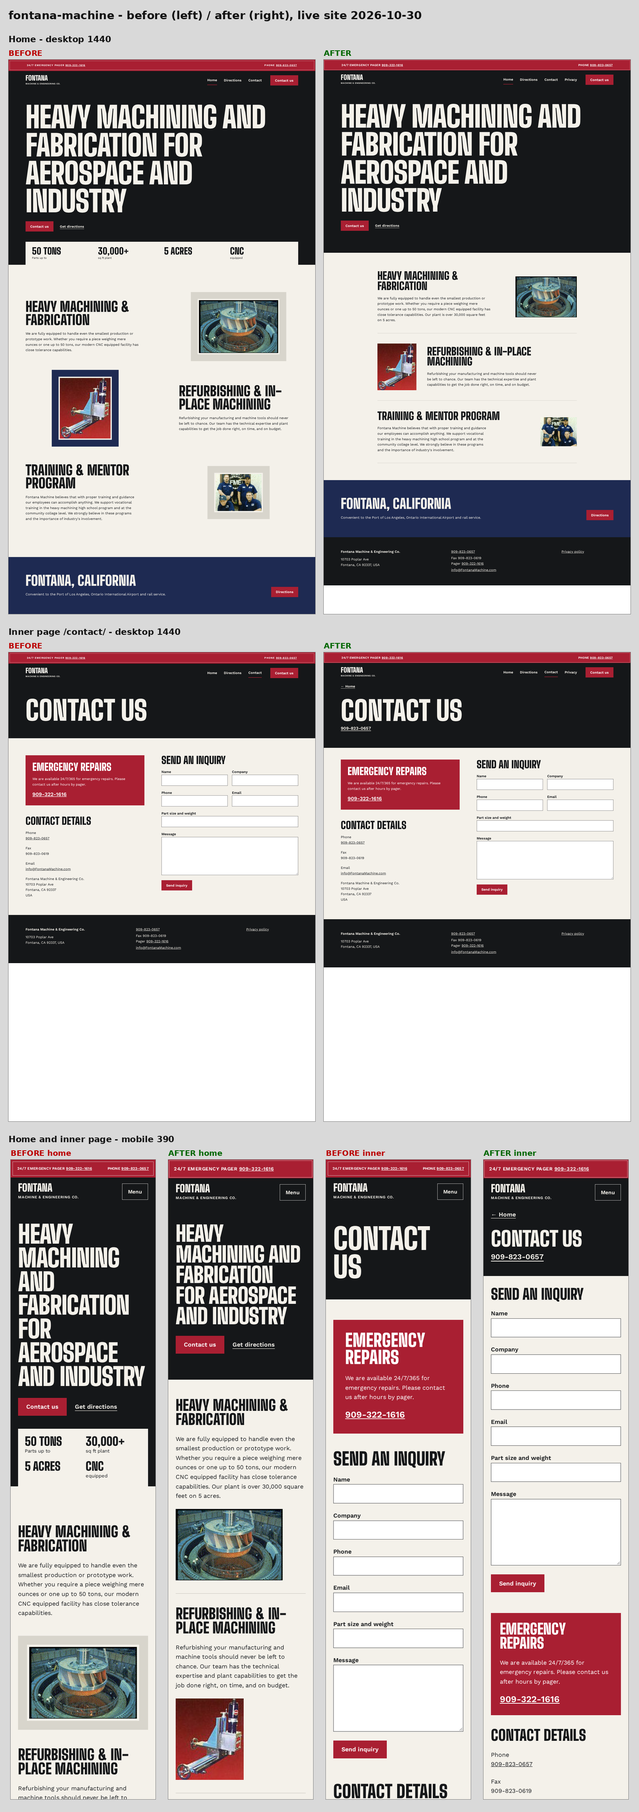
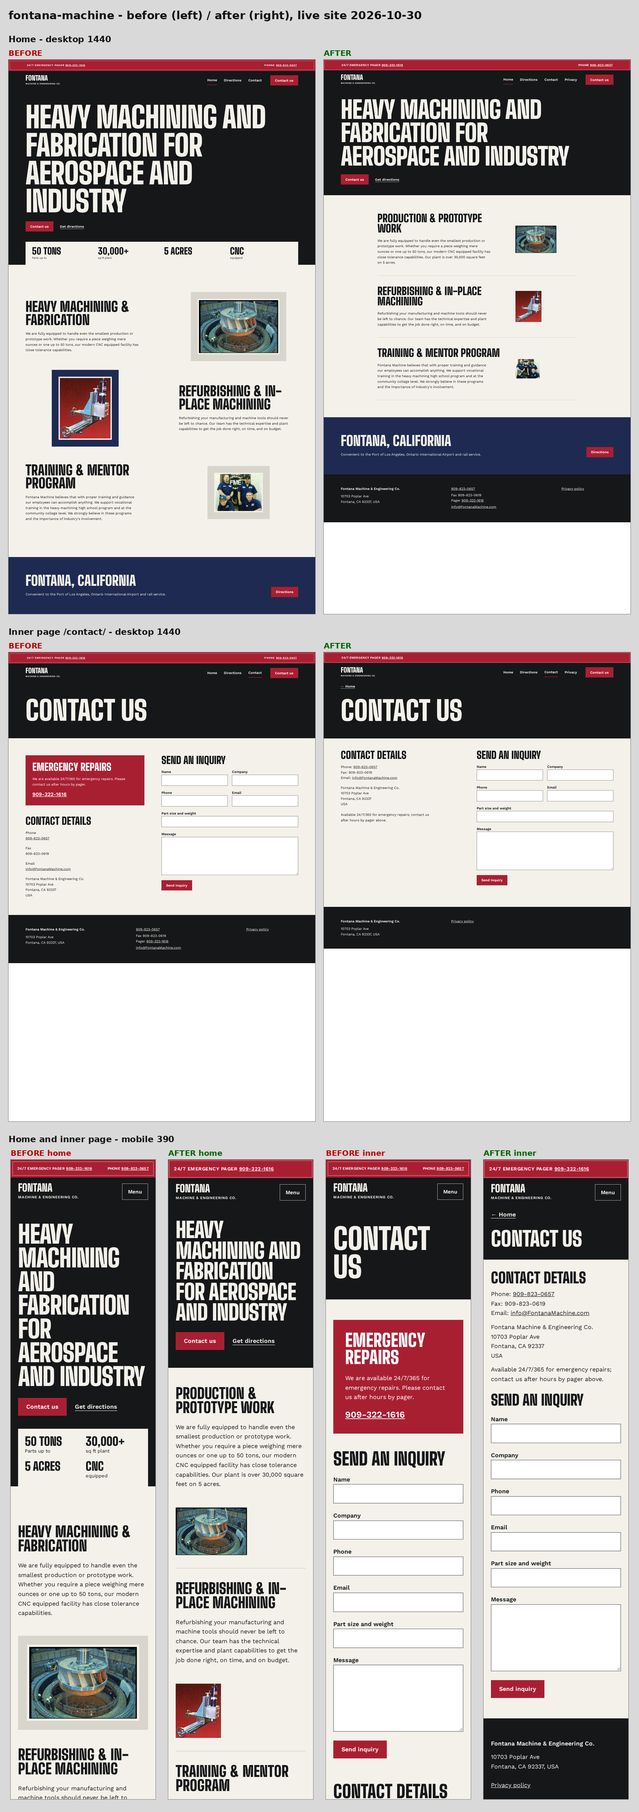
fontana-machine: round 3, no repeated heading, shorter hero reveals first photo, aligned service photos, each contact number shown once

diff --git a/sites/fontana-machine/site/contact/index.html b/sites/fontana-machine/site/contact/index.html
@@ -1,4 +1,4 @@
-<!doctype html><html lang="en"><head><meta charset="utf-8"><meta name="viewport" content="width=device-width,initial-scale=1"><meta name="robots" content="noindex"><title>Contact | Fontana Machine &amp; Engineering Co.</title><meta name="description" content="Contact Fontana Machine & Engineering Co. for machining and emergency repairs."><meta property="og:title" content="Contact | Fontana Machine &amp; Engineering Co."><meta property="og:description" content="Contact Fontana Machine & Engineering Co. for machining and emergency repairs."><meta property="og:type" content="website"><meta property="og:url" content="https://www.fontanamachine.com/contact/"><link rel="icon" href="/assets/img/favicon.svg" type="image/svg+xml"><link rel="preload" href="/assets/fonts/big-shoulders-display-latin-900-normal.woff2" as="font" type="font/woff2" crossorigin><link rel="stylesheet" href="/assets/css/site.css"><script type="application/ld+json">{"@context": "https://schema.org", "@type": "Organization", "name": "Fontana Machine & Engineering Co.", "url": "https://www.fontanamachine.com/", "telephone": "909-823-0657", "faxNumber": "909-823-0619", "email": "info@FontanaMachine.com", "address": {"@type": "PostalAddress", "streetAddress": "10703 Poplar Ave", "addressLocality": "Fontana", "addressRegion": "CA", "postalCode": "92337", "addressCountry": "USA"}}</script><script src="/assets/js/site.js" defer></script></head><body><a class="skip" href="#main">Skip to content</a><header class="header"><div class="emergency-strip"><div class="wrap"><span>24/7 emergency pager <a href="tel:9093221616">909-322-1616</a></span><span>Phone <a href="tel:9098230657">909-823-0657</a></span></div></div><div class="wrap header-inner"><a class="brand" href="/">FONTANA <span>MACHINE &amp; ENGINEERING CO.</span></a><div class="header-actions"><button class="menu" type="button" aria-expanded="false" aria-controls="navigation">Menu</button></div><nav id="navigation" aria-label="Main navigation"><ul><li><a href="/">Home</a></li>
+<!doctype html><html lang="en"><head><meta charset="utf-8"><meta name="viewport" content="width=device-width,initial-scale=1"><meta name="robots" content="noindex"><title>Contact | Fontana Machine &amp; Engineering Co.</title><meta name="description" content="Contact Fontana Machine & Engineering Co. for machining and emergency repairs."><meta property="og:title" content="Contact | Fontana Machine &amp; Engineering Co."><meta property="og:description" content="Contact Fontana Machine & Engineering Co. for machining and emergency repairs."><meta property="og:type" content="website"><meta property="og:url" content="https://www.fontanamachine.com/contact/"><link rel="icon" href="/assets/img/favicon.svg" type="image/svg+xml"><link rel="preload" href="/assets/fonts/big-shoulders-display-latin-900-normal.woff2" as="font" type="font/woff2" crossorigin><link rel="stylesheet" href="/assets/css/site.css"><script type="application/ld+json">{"@context": "https://schema.org", "@type": "Organization", "name": "Fontana Machine & Engineering Co.", "url": "https://www.fontanamachine.com/", "telephone": "909-823-0657", "faxNumber": "909-823-0619", "email": "info@FontanaMachine.com", "address": {"@type": "PostalAddress", "streetAddress": "10703 Poplar Ave", "addressLocality": "Fontana", "addressRegion": "CA", "postalCode": "92337", "addressCountry": "USA"}}</script><script src="/assets/js/site.js" defer></script></head><body><a class="skip" href="#main">Skip to content</a><header class="header"><div class="emergency-strip"><div class="wrap"><span>24/7 emergency pager <a href="tel:9093221616">909-322-1616</a></span></div></div><div class="wrap header-inner"><a class="brand" href="/">FONTANA <span>MACHINE &amp; ENGINEERING CO.</span></a><div class="header-actions"><button class="menu" type="button" aria-expanded="false" aria-controls="navigation">Menu</button></div><nav id="navigation" aria-label="Main navigation"><ul><li><a href="/">Home</a></li>
 <li><a href="/directions/">Directions</a></li>
 <li><a href="/contact/" aria-current="page">Contact</a></li>
-<li><a href="/privacy/">Privacy</a></li></ul></nav><a class="header-contact" href="/contact/">Contact us</a></div></header><main id="main"><div class="inner-back"><div class="wrap"><a href="/">← Home</a></div></div><section class="page-head"><div class="wrap"><h1>Contact us</h1><a class="contact-phone" href="tel:9098230657">909-823-0657</a></div></section><div class="wrap contact-grid"><div class="inquiry"><h2>Send an inquiry</h2><!-- Replace the mailto fallback with a production form endpoint here. --><form id="inquiry"><div class="form-grid"><label>Name<input name="Name" autocomplete="name" required></label><label>Company<input name="Company" autocomplete="organization"></label><label>Phone<input name="Phone" type="tel" autocomplete="tel"></label><label>Email<input name="Email" type="email" autocomplete="email" required></label></div><label>Part size and weight<input name="Part size and weight"></label><label>Message<textarea name="Message" rows="6" required></textarea></label><button class="button" type="submit">Send inquiry</button><p id="form-status" role="status"></p></form></div><div class="contact-info"><div class="emergency"><h2>Emergency repairs</h2><p>We are available 24/7/365 for emergency repairs. Please contact us after hours by pager.</p><a href="tel:9093221616">909-322-1616</a></div><div class="contact-details"><h2>Contact details</h2><p>Phone<br><a href="tel:9098230657">909-823-0657</a></p><p>Fax<br>909-823-0619</p><p>Email<br><a href="mailto:info@fontanamachine.com">info@FontanaMachine.com</a></p><p>Fontana Machine &amp; Engineering Co.<br>10703 Poplar Ave<br>Fontana, CA 92337<br>USA</p></div></div></div></main><footer><div class="wrap footer-inner"><div><strong>Fontana Machine &amp; Engineering Co.</strong><p>10703 Poplar Ave<br>Fontana, CA 92337, USA</p></div><div><a href="tel:9098230657">909-823-0657</a><br>Fax 909-823-0619<br>Pager <a href="tel:9093221616">909-322-1616</a><br><a href="mailto:info@fontanamachine.com">info@FontanaMachine.com</a></div><a href="/privacy/">Privacy policy</a></div></footer></body></html>
+<li><a href="/privacy/">Privacy</a></li></ul></nav><a class="header-contact" href="/contact/">Contact us</a></div></header><main id="main"><div class="inner-back"><div class="wrap"><a href="/">← Home</a></div></div><section class="page-head"><div class="wrap"><h1>Contact us</h1></div></section><div class="wrap contact-grid"><div class="contact-info"><p class="emergency-note">Available 24/7/365 for emergency repairs; contact us after hours by pager above.</p><div class="contact-details"><h2>Contact details</h2><p>Phone: <a href="tel:9098230657">909-823-0657</a><br>Fax: 909-823-0619<br>Email: <a href="mailto:info@fontanamachine.com">info@FontanaMachine.com</a></p><p>Fontana Machine &amp; Engineering Co.<br>10703 Poplar Ave<br>Fontana, CA 92337<br>USA</p></div></div><div class="inquiry"><h2>Send an inquiry</h2><!-- Replace the mailto fallback with a production form endpoint here. --><form id="inquiry"><div class="form-grid"><label>Name<input name="Name" autocomplete="name" required></label><label>Company<input name="Company" autocomplete="organization"></label><label>Phone<input name="Phone" type="tel" autocomplete="tel"></label><label>Email<input name="Email" type="email" autocomplete="email" required></label></div><label>Part size and weight<input name="Part size and weight"></label><label>Message<textarea name="Message" rows="6" required></textarea></label><button class="button" type="submit">Send inquiry</button><p id="form-status" role="status"></p></form></div></div></main><footer><div class="wrap footer-inner"><div><strong>Fontana Machine &amp; Engineering Co.</strong><p>10703 Poplar Ave<br>Fontana, CA 92337, USA</p></div><a href="/privacy/">Privacy policy</a></div></footer></body></html>

diff --git a/sites/fontana-machine/site/index.html b/sites/fontana-machine/site/index.html
@@ -1,4 +1,4 @@
 <!doctype html><html lang="en"><head><meta charset="utf-8"><meta name="viewport" content="width=device-width,initial-scale=1"><meta name="robots" content="noindex"><title>Heavy machining and fabrication | Fontana Machine &amp; Engineering Co.</title><meta name="description" content="Heavy machining and fabrication for aerospace and industry in Fontana, California."><meta property="og:title" content="Heavy machining and fabrication | Fontana Machine &amp; Engineering Co."><meta property="og:description" content="Heavy machining and fabrication for aerospace and industry in Fontana, California."><meta property="og:type" content="website"><meta property="og:url" content="https://www.fontanamachine.com/"><link rel="icon" href="/assets/img/favicon.svg" type="image/svg+xml"><link rel="preload" href="/assets/fonts/big-shoulders-display-latin-900-normal.woff2" as="font" type="font/woff2" crossorigin><link rel="stylesheet" href="/assets/css/site.css"><script type="application/ld+json">{"@context": "https://schema.org", "@type": "Organization", "name": "Fontana Machine & Engineering Co.", "url": "https://www.fontanamachine.com/", "telephone": "909-823-0657", "faxNumber": "909-823-0619", "email": "info@FontanaMachine.com", "address": {"@type": "PostalAddress", "streetAddress": "10703 Poplar Ave", "addressLocality": "Fontana", "addressRegion": "CA", "postalCode": "92337", "addressCountry": "USA"}}</script><script src="/assets/js/site.js" defer></script></head><body><a class="skip" href="#main">Skip to content</a><header class="header"><div class="emergency-strip"><div class="wrap"><span>24/7 emergency pager <a href="tel:9093221616">909-322-1616</a></span><span>Phone <a href="tel:9098230657">909-823-0657</a></span></div></div><div class="wrap header-inner"><a class="brand" href="/">FONTANA <span>MACHINE &amp; ENGINEERING CO.</span></a><div class="header-actions"><button class="menu" type="button" aria-expanded="false" aria-controls="navigation">Menu</button></div><nav id="navigation" aria-label="Main navigation"><ul><li><a href="/" aria-current="page">Home</a></li>
 <li><a href="/directions/">Directions</a></li>
 <li><a href="/contact/">Contact</a></li>
-<li><a href="/privacy/">Privacy</a></li></ul></nav><a class="header-contact" href="/contact/">Contact us</a></div></header><main id="main"><section class="hero"><div class="wrap"><h1>Heavy machining and fabrication for aerospace and industry</h1><div class="actions"><a class="button" href="/contact/">Contact us</a> <a class="text-link light" href="/directions/">Get directions</a></div></div></section><div class="services"><section class="feature"><div class="feature-copy"><h2>Heavy machining &amp; fabrication</h2><p>We are fully equipped to handle even the smallest production or prototype work. Whether you require a piece weighing mere ounces or one up to 50 tons, our modern CNC equipped facility has close tolerance capabilities. Our plant is over 30,000 square feet on 5 acres.</p></div><figure class="feature-figure"><img src="/assets/img/heavy-turbine.png" alt="A large turbine in the machining shop" width="192" height="128"></figure></section><section class="feature"><div class="feature-copy"><h2>Refurbishing &amp; in-place machining</h2><p>Refurbishing your manufacturing and machine tools should never be left to chance. Our team has the technical expertise and plant capabilities to get the job done right, on time, and on budget.</p></div><figure class="feature-figure"><img src="/assets/img/portable-machining.jpg" alt="In-place mobile machining" width="122" height="146"></figure></section><section class="feature"><div class="feature-copy"><h2>Training &amp; mentor program</h2><p>Fontana Machine believes that with proper training and guidance our employees can accomplish anything. We support vocational training in the heavy machining high school program and at the community college level. We strongly believe in these programs and the importance of industry's involvement.</p></div><figure class="feature-figure"><img src="/assets/img/heavy-class.png" alt="A graduating class from the mentor program" width="114" height="91"></figure></section></div><section class="location"><div class="wrap location-inner"><div><h2>Fontana, California</h2><p>Convenient to the Port of Los Angeles, Ontario International Airport and rail service.</p></div><a class="button" href="/directions/">Directions</a></div></section></main><footer><div class="wrap footer-inner"><div><strong>Fontana Machine &amp; Engineering Co.</strong><p>10703 Poplar Ave<br>Fontana, CA 92337, USA</p></div><div><a href="tel:9098230657">909-823-0657</a><br>Fax 909-823-0619<br>Pager <a href="tel:9093221616">909-322-1616</a><br><a href="mailto:info@fontanamachine.com">info@FontanaMachine.com</a></div><a href="/privacy/">Privacy policy</a></div></footer></body></html>
+<li><a href="/privacy/">Privacy</a></li></ul></nav><a class="header-contact" href="/contact/">Contact us</a></div></header><main id="main"><section class="hero"><div class="wrap"><h1>Heavy machining and fabrication for aerospace and industry</h1><div class="actions"><a class="button" href="/contact/">Contact us</a> <a class="text-link light" href="/directions/">Get directions</a></div></div></section><div class="services"><section class="feature"><div class="feature-copy"><h2>Production &amp; prototype work</h2><p>We are fully equipped to handle even the smallest production or prototype work. Whether you require a piece weighing mere ounces or one up to 50 tons, our modern CNC equipped facility has close tolerance capabilities. Our plant is over 30,000 square feet on 5 acres.</p></div><figure class="feature-figure"><img src="/assets/img/heavy-turbine.png" alt="A large turbine in the machining shop" width="192" height="128"></figure></section><section class="feature"><div class="feature-copy"><h2>Refurbishing &amp; in-place machining</h2><p>Refurbishing your manufacturing and machine tools should never be left to chance. Our team has the technical expertise and plant capabilities to get the job done right, on time, and on budget.</p></div><figure class="feature-figure"><img src="/assets/img/portable-machining.jpg" alt="In-place mobile machining" width="122" height="146"></figure></section><section class="feature"><div class="feature-copy"><h2>Training &amp; mentor program</h2><p>Fontana Machine believes that with proper training and guidance our employees can accomplish anything. We support vocational training in the heavy machining high school program and at the community college level. We strongly believe in these programs and the importance of industry's involvement.</p></div><figure class="feature-figure"><img src="/assets/img/heavy-class.png" alt="A graduating class from the mentor program" width="114" height="91"></figure></section></div><section class="location"><div class="wrap location-inner"><div><h2>Fontana, California</h2><p>Convenient to the Port of Los Angeles, Ontario International Airport and rail service.</p></div><a class="button" href="/directions/">Directions</a></div></section></main><footer><div class="wrap footer-inner"><div><strong>Fontana Machine &amp; Engineering Co.</strong><p>10703 Poplar Ave<br>Fontana, CA 92337, USA</p></div><div><a href="tel:9098230657">909-823-0657</a><br>Fax 909-823-0619<br>Pager <a href="tel:9093221616">909-322-1616</a><br><a href="mailto:info@fontanamachine.com">info@FontanaMachine.com</a></div><a href="/privacy/">Privacy policy</a></div></footer></body></html>

diff --git a/sites/fontana-machine/site/assets/css/site.css b/sites/fontana-machine/site/assets/css/site.css
@@ -11,3 +11,10 @@ nav ul{list-style:none;display:flex;align-items:center;gap:32px;margin:0;padding
 @media(max-width:760px){.emergency-strip .wrap{flex-wrap:nowrap}.emergency-strip .wrap span:last-child{display:none}.services{padding:15px 20px 45px}.feature,.feature:nth-child(even),.feature:nth-child(3){margin:0;gap:22px;padding:35px 0}.feature h2{font-size:2.5rem}.hero{padding-bottom:35px}.page-head h1{font-size:3.5rem}.contact-grid{padding-top:30px}.inquiry{order:0}.emergency{order:1}.contact-details{order:2}.map{order:0}}
 
 @media(min-width:761px){.contact-info{grid-column:1;grid-row:1}.inquiry{grid-column:2;grid-row:1}}
+
+/* Round 3: a compact poster followed by one aligned set of shop photographs. */
+.hero{padding-top:42px;padding-bottom:22px}.hero h1{font-size:clamp(5rem,8vw,7.5rem);max-width:1100px}.actions{margin-bottom:28px}
+.feature,.feature:nth-child(even),.feature:nth-child(3){grid-template-columns:minmax(0,1fr) 288px;gap:50px}.feature:nth-child(even) .feature-copy{order:0}.feature-figure,.feature:nth-child(even) .feature-figure{justify-self:start}.feature-figure img{width:192px}.feature:nth-child(2) .feature-figure img{width:122px}.feature:nth-child(3) .feature-figure img{width:114px}
+.contact-details{padding-top:0}.emergency-note{margin:0 0 24px;max-width:430px}.contact-grid .contact-info{display:flex;flex-direction:column}.contact-grid .contact-details{order:-1}.contact-grid .emergency-note{margin:24px 0 0}
+@media(max-width:760px){.hero{padding-top:35px;padding-bottom:20px}.hero h1{font-size:clamp(3.5rem,15vw,5.5rem)}.feature,.feature:nth-child(even),.feature:nth-child(3){display:flex}.contact-grid .contact-info{display:flex;order:0}.inquiry{order:1}.contact-details p{margin-top:12px}.contact-grid .emergency-note{margin-top:20px}}
+@media(max-width:760px){.emergency-strip .wrap span:only-child{display:block}.contact-grid .emergency-note{margin-top:12px}.contact-grid{gap:24px}}

diff --git a/sites/fontana-machine/src/build.py b/sites/fontana-machine/src/build.py
@@ -23,15 +23,18 @@ def page(title, desc, path, body):
     schema = {'@context':'https://schema.org','@type':'Organization','name':'Fontana Machine & Engineering Co.','url':'https://www.fontanamachine.com/','telephone':'909-823-0657','faxNumber':'909-823-0619','email':'info@FontanaMachine.com','address':{'@type':'PostalAddress','streetAddress':'10703 Poplar Ave','addressLocality':'Fontana','addressRegion':'CA','postalCode':'92337','addressCountry':'USA'}}
     strip = '<div class="emergency-strip"><div class="wrap"><span>24/7 emergency pager <a href="tel:9093221616">909-322-1616</a></span><span>Phone <a href="tel:9098230657">909-823-0657</a></span></div></div>'
 
+    if path == '/contact/':
+        strip = '<div class="emergency-strip"><div class="wrap"><span>24/7 emergency pager <a href="tel:9093221616">909-322-1616</a></span></div></div>'
+    footer_details = '' if path == '/contact/' else '<div><a href="tel:9098230657">909-823-0657</a><br>Fax 909-823-0619<br>Pager <a href="tel:9093221616">909-322-1616</a><br><a href="mailto:info@fontanamachine.com">info@FontanaMachine.com</a></div>'
     back = '<div class="inner-back"><div class="wrap"><a href="/">← Home</a></div></div>' if path != '/' else ''
-    html = f'''<!doctype html><html lang="en"><head><meta charset="utf-8"><meta name="viewport" content="width=device-width,initial-scale=1"><meta name="robots" content="noindex"><title>{title} | Fontana Machine &amp; Engineering Co.</title><meta name="description" content="{desc}"><meta property="og:title" content="{title} | Fontana Machine &amp; Engineering Co."><meta property="og:description" content="{desc}"><meta property="og:type" content="website"><meta property="og:url" content="https://www.fontanamachine.com{path}"><link rel="icon" href="/assets/img/favicon.svg" type="image/svg+xml"><link rel="preload" href="/assets/fonts/big-shoulders-display-latin-900-normal.woff2" as="font" type="font/woff2" crossorigin><link rel="stylesheet" href="/assets/css/site.css"><script type="application/ld+json">{json.dumps(schema)}</script><script src="/assets/js/site.js" defer></script></head><body><a class="skip" href="#main">Skip to content</a><header class="header">{strip}<div class="wrap header-inner"><a class="brand" href="/">FONTANA <span>MACHINE &amp; ENGINEERING CO.</span></a><div class="header-actions"><button class="menu" type="button" aria-expanded="false" aria-controls="navigation">Menu</button></div><nav id="navigation" aria-label="Main navigation"><ul>{nav}</ul></nav><a class="header-contact" href="/contact/">Contact us</a></div></header><main id="main">{back}{body}</main><footer><div class="wrap footer-inner"><div><strong>Fontana Machine &amp; Engineering Co.</strong><p>10703 Poplar Ave<br>Fontana, CA 92337, USA</p></div><div><a href="tel:9098230657">909-823-0657</a><br>Fax 909-823-0619<br>Pager <a href="tel:9093221616">909-322-1616</a><br><a href="mailto:info@fontanamachine.com">info@FontanaMachine.com</a></div><a href="/privacy/">Privacy policy</a></div></footer></body></html>'''
+    html = f'''<!doctype html><html lang="en"><head><meta charset="utf-8"><meta name="viewport" content="width=device-width,initial-scale=1"><meta name="robots" content="noindex"><title>{title} | Fontana Machine &amp; Engineering Co.</title><meta name="description" content="{desc}"><meta property="og:title" content="{title} | Fontana Machine &amp; Engineering Co."><meta property="og:description" content="{desc}"><meta property="og:type" content="website"><meta property="og:url" content="https://www.fontanamachine.com{path}"><link rel="icon" href="/assets/img/favicon.svg" type="image/svg+xml"><link rel="preload" href="/assets/fonts/big-shoulders-display-latin-900-normal.woff2" as="font" type="font/woff2" crossorigin><link rel="stylesheet" href="/assets/css/site.css"><script type="application/ld+json">{json.dumps(schema)}</script><script src="/assets/js/site.js" defer></script></head><body><a class="skip" href="#main">Skip to content</a><header class="header">{strip}<div class="wrap header-inner"><a class="brand" href="/">FONTANA <span>MACHINE &amp; ENGINEERING CO.</span></a><div class="header-actions"><button class="menu" type="button" aria-expanded="false" aria-controls="navigation">Menu</button></div><nav id="navigation" aria-label="Main navigation"><ul>{nav}</ul></nav><a class="header-contact" href="/contact/">Contact us</a></div></header><main id="main">{back}{body}</main><footer><div class="wrap footer-inner"><div><strong>Fontana Machine &amp; Engineering Co.</strong><p>10703 Poplar Ave<br>Fontana, CA 92337, USA</p></div>{footer_details}<a href="/privacy/">Privacy policy</a></div></footer></body></html>'''
     target = OUT / ('index.html' if path == '/' else path.strip('/') + '/index.html')
     target.parent.mkdir(parents=True, exist_ok=True); target.write_text(html)
 
-home = f'''<section class="hero"><div class="wrap"><h1>Heavy machining and fabrication for aerospace and industry</h1><div class="actions"><a class="button" href="/contact/">Contact us</a> <a class="text-link light" href="/directions/">Get directions</a></div></div></section><div class="services"><section class="feature"><div class="feature-copy"><h2>Heavy machining &amp; fabrication</h2><p>We are fully equipped to handle even the smallest production or prototype work. Whether you require a piece weighing mere ounces or one up to 50 tons, our modern CNC equipped facility has close tolerance capabilities. Our plant is over 30,000 square feet on 5 acres.</p></div><figure class="feature-figure">{image('heavy-turbine.png','A large turbine in the machining shop',192,128)}</figure></section><section class="feature"><div class="feature-copy"><h2>Refurbishing &amp; in-place machining</h2><p>Refurbishing your manufacturing and machine tools should never be left to chance. Our team has the technical expertise and plant capabilities to get the job done right, on time, and on budget.</p></div><figure class="feature-figure">{image('portable-machining.jpg','In-place mobile machining',122,146)}</figure></section><section class="feature"><div class="feature-copy"><h2>Training &amp; mentor program</h2><p>Fontana Machine believes that with proper training and guidance our employees can accomplish anything. We support vocational training in the heavy machining high school program and at the community college level. We strongly believe in these programs and the importance of industry's involvement.</p></div><figure class="feature-figure">{image('heavy-class.png','A graduating class from the mentor program',114,91)}</figure></section></div><section class="location"><div class="wrap location-inner"><div><h2>Fontana, California</h2><p>Convenient to the Port of Los Angeles, Ontario International Airport and rail service.</p></div><a class="button" href="/directions/">Directions</a></div></section>'''
+home = f'''<section class="hero"><div class="wrap"><h1>Heavy machining and fabrication for aerospace and industry</h1><div class="actions"><a class="button" href="/contact/">Contact us</a> <a class="text-link light" href="/directions/">Get directions</a></div></div></section><div class="services"><section class="feature"><div class="feature-copy"><h2>Production &amp; prototype work</h2><p>We are fully equipped to handle even the smallest production or prototype work. Whether you require a piece weighing mere ounces or one up to 50 tons, our modern CNC equipped facility has close tolerance capabilities. Our plant is over 30,000 square feet on 5 acres.</p></div><figure class="feature-figure">{image('heavy-turbine.png','A large turbine in the machining shop',192,128)}</figure></section><section class="feature"><div class="feature-copy"><h2>Refurbishing &amp; in-place machining</h2><p>Refurbishing your manufacturing and machine tools should never be left to chance. Our team has the technical expertise and plant capabilities to get the job done right, on time, and on budget.</p></div><figure class="feature-figure">{image('portable-machining.jpg','In-place mobile machining',122,146)}</figure></section><section class="feature"><div class="feature-copy"><h2>Training &amp; mentor program</h2><p>Fontana Machine believes that with proper training and guidance our employees can accomplish anything. We support vocational training in the heavy machining high school program and at the community college level. We strongly believe in these programs and the importance of industry's involvement.</p></div><figure class="feature-figure">{image('heavy-class.png','A graduating class from the mentor program',114,91)}</figure></section></div><section class="location"><div class="wrap location-inner"><div><h2>Fontana, California</h2><p>Convenient to the Port of Los Angeles, Ontario International Airport and rail service.</p></div><a class="button" href="/directions/">Directions</a></div></section>'''
 route_html = ''.join(f'<section class="route"><h2>{escape(k)}</h2><p>{escape(v)}</p></section>' for k,v in ROUTES.items())
 directions = f'''<section class="page-head"><div class="wrap"><h1>Driving directions</h1><p>10703 Poplar Ave, Fontana, CA 92337</p><a class="text-link light" href="https://www.google.com/maps/search/?api=1&amp;query=10703+Poplar+Ave%2C+Fontana%2C+CA+92337">Open in Google Maps</a></div></section><div class="wrap directions"><div class="routes">{route_html}</div><aside class="map"><div class="photo-well">{image('heavy-map.png','Map showing Fontana Machine’s location',356,309)}</div></aside></div>'''
-contact = '''<section class="page-head"><div class="wrap"><h1>Contact us</h1><a class="contact-phone" href="tel:9098230657">909-823-0657</a></div></section><div class="wrap contact-grid"><div class="inquiry"><h2>Send an inquiry</h2><!-- Replace the mailto fallback with a production form endpoint here. --><form id="inquiry"><div class="form-grid"><label>Name<input name="Name" autocomplete="name" required></label><label>Company<input name="Company" autocomplete="organization"></label><label>Phone<input name="Phone" type="tel" autocomplete="tel"></label><label>Email<input name="Email" type="email" autocomplete="email" required></label></div><label>Part size and weight<input name="Part size and weight"></label><label>Message<textarea name="Message" rows="6" required></textarea></label><button class="button" type="submit">Send inquiry</button><p id="form-status" role="status"></p></form></div><div class="contact-info"><div class="emergency"><h2>Emergency repairs</h2><p>We are available 24/7/365 for emergency repairs. Please contact us after hours by pager.</p><a href="tel:9093221616">909-322-1616</a></div><div class="contact-details"><h2>Contact details</h2><p>Phone<br><a href="tel:9098230657">909-823-0657</a></p><p>Fax<br>909-823-0619</p><p>Email<br><a href="mailto:info@fontanamachine.com">info@FontanaMachine.com</a></p><p>Fontana Machine &amp; Engineering Co.<br>10703 Poplar Ave<br>Fontana, CA 92337<br>USA</p></div></div></div>'''
+contact = '''<section class="page-head"><div class="wrap"><h1>Contact us</h1></div></section><div class="wrap contact-grid"><div class="contact-info"><p class="emergency-note">Available 24/7/365 for emergency repairs; contact us after hours by pager above.</p><div class="contact-details"><h2>Contact details</h2><p>Phone: <a href="tel:9098230657">909-823-0657</a><br>Fax: 909-823-0619<br>Email: <a href="mailto:info@fontanamachine.com">info@FontanaMachine.com</a></p><p>Fontana Machine &amp; Engineering Co.<br>10703 Poplar Ave<br>Fontana, CA 92337<br>USA</p></div></div><div class="inquiry"><h2>Send an inquiry</h2><!-- Replace the mailto fallback with a production form endpoint here. --><form id="inquiry"><div class="form-grid"><label>Name<input name="Name" autocomplete="name" required></label><label>Company<input name="Company" autocomplete="organization"></label><label>Phone<input name="Phone" type="tel" autocomplete="tel"></label><label>Email<input name="Email" type="email" autocomplete="email" required></label></div><label>Part size and weight<input name="Part size and weight"></label><label>Message<textarea name="Message" rows="6" required></textarea></label><button class="button" type="submit">Send inquiry</button><p id="form-status" role="status"></p></form></div></div>'''
 privacy = '''<section class="page-head"><div class="wrap"><h1>Privacy policy</h1></div></section><div class="wrap prose"><p>Any information you send to us is company confidential. We will never sell or distribute it to individuals or organizations not owned or controlled by us. We will not place cookies on your system, nor will our server do so intentionally.</p></div>'''
 page('Heavy machining and fabrication','Heavy machining and fabrication for aerospace and industry in Fontana, California.','/',home)
 page('Directions','Driving directions to Fontana Machine & Engineering Co. in Fontana, California.','/directions/',directions)

diff --git a/sites/fontana-machine/REVIEW.md b/sites/fontana-machine/REVIEW.md
@@ -40,3 +40,22 @@
 - Revisited every page including 404 at 1440 and 390; see `/workspace/shots/rev2/fontana-machine/r2final-home-1440.png`, `/workspace/shots/rev2/fontana-machine/r2final-contact-390.png`, `/workspace/shots/rev2/fontana-machine/r2final-directions-1440.png`, and `/workspace/shots/rev2/fontana-machine/r2final-404-390.png`. No overflow, missing images, failed requests or page errors were found.
 - Clicked all four navigation links at both sizes, checked current markers and the mobile menu's button, tab and Escape behavior, reviewed text and navigation aria snapshots, checked footer/contact link targets and all five redirects (301). No adjacent anchor/button patterns in built HTML. Empty inquiry fails validation; filled inquiry displays its status. The mailto was captured by instrumenting the live handler and verified for address, subject and all six answers; no email was sent.
 - Remaining: original photos and map are small and dated. They cannot be made substantially larger without degrading quality; new photography would materially improve the site. The inquiry requires a configured email app.
+
+## Round 3
+
+- P1: The contact page repeats the business phone in the header, heading, details and footer, and repeats the pager and fax as well. The inquiry separates the heading from the actual contact details on mobile. `/workspace/shots/rev2/fontana-machine/r3initial-contact-390.png`
+- P2: The home headline repeats the first section heading, while a full screen of black typography hides the shop photos. The three pictures alternate positions and sizes, making the services feel scattered. `/workspace/shots/rev2/fontana-machine/r3initial-home-1440.png`
+- P3: The source photographs are small and dated; the smallest has limited detail even at the current size. `/workspace/shots/rev2/fontana-machine/r3initial-home-1440.png`
+
+### Round 3 Loop 1
+
+- Replaced the repeated service heading with the original's production and prototype subject, shortened the poster enough to reveal the first photo, aligned the photos, and consolidated contact numbers. Rebuilt, checked and deployed.
+- Live checks covered all pages at both widths, navigation, current markers, menu controls, empty and filled inquiry, images and overflow; see `/workspace/shots/rev2/fontana-machine/r3loop1-home-1440.png` and `/workspace/shots/rev2/fontana-machine/r3loop1-contact-390.png`.
+- Remaining: the single pager item on the contact page is accidentally hidden by the mobile rule that hid the second strip item. The contact details also take too much vertical space before the form.
+
+### Round 3 Loop 2
+
+- Restored the mobile pager on Contact, compacted the contact details, and made their document order match the visual order. Rebuilt, passed `src/check.py`, and deployed.
+- Revisited all five pages at 1440 and 390, including the 404. The pager, main phone and fax each appear once on Contact; the inquiry begins in the first mobile screen. Screenshots: `/workspace/shots/rev2/fontana-machine/r3loop2-home-1440.png`, `/workspace/shots/rev2/fontana-machine/r3loop2-contact-390.png`, `/workspace/shots/rev2/fontana-machine/r3loop2-directions-1440.png`, and `/workspace/shots/rev2/fontana-machine/r3loop2-sheet-390.png`.
+- Clicked every navigation item at both widths; checked mobile keyboard opening, tab, Escape, close button and current marker. Checked contact and footer targets, the menu's aria snapshot, and visible text. Empty inquiry was blocked; the live handler, instrumented to capture its navigation, produced the expected mailto address, subject and six fields. No email was sent. All five old paths returned 301, and generated HTML has zero adjacent anchor/anchor or anchor/button patterns. No overflow, missing images, failed requests or page errors appeared in the browser checks.
+- Remaining: the original photographs and map are small and dated; new shop photography would make the site stronger. The inquiry still relies on a configured mail app.
